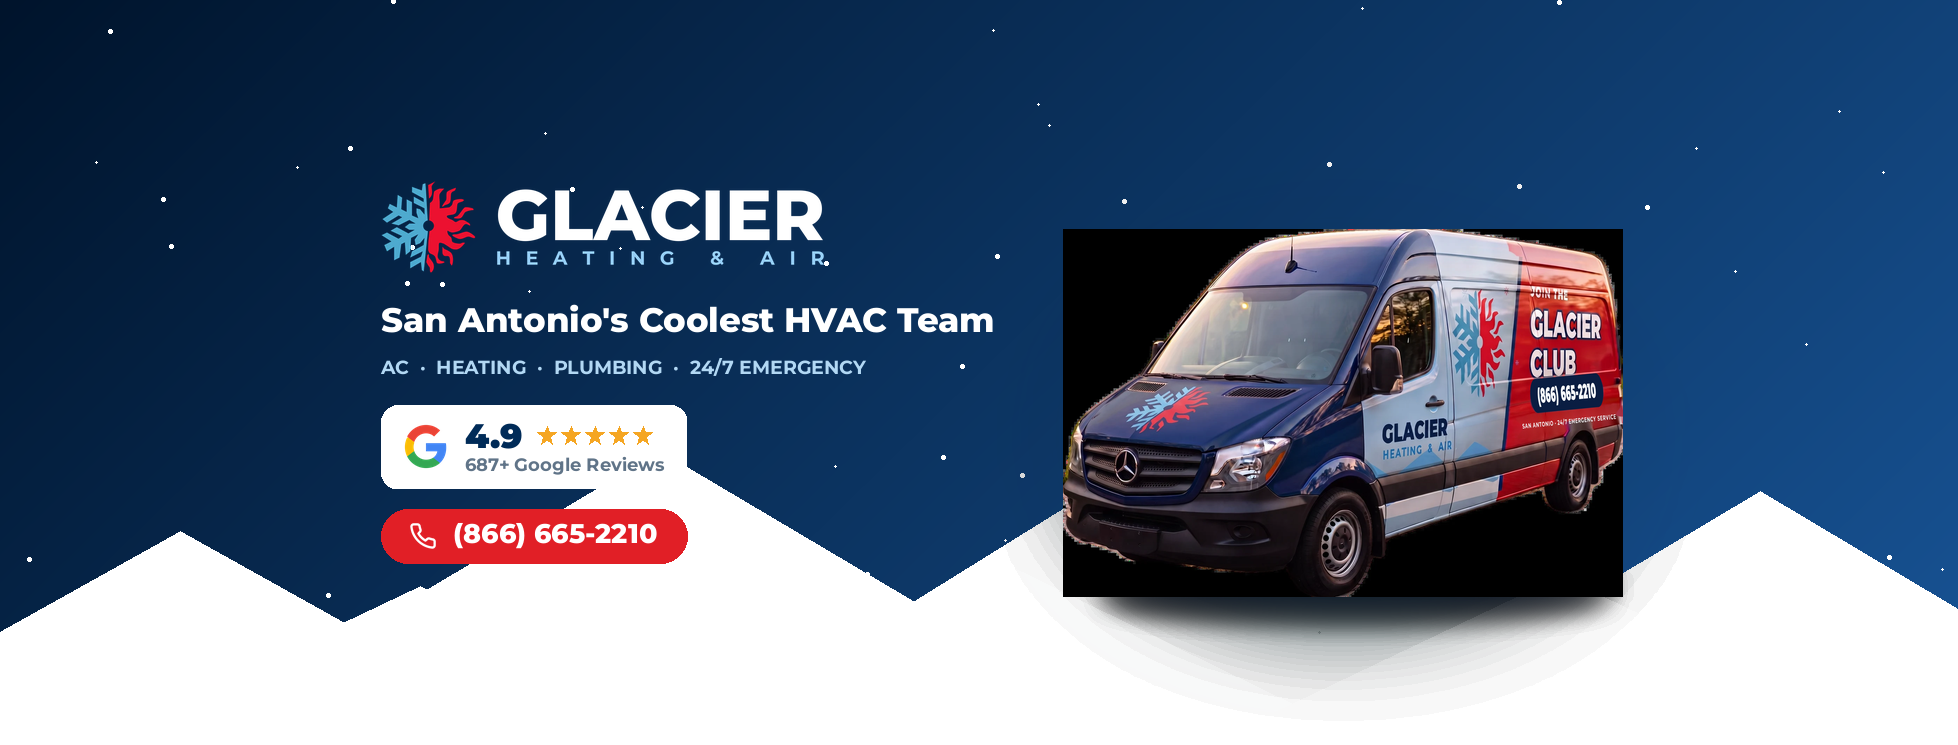
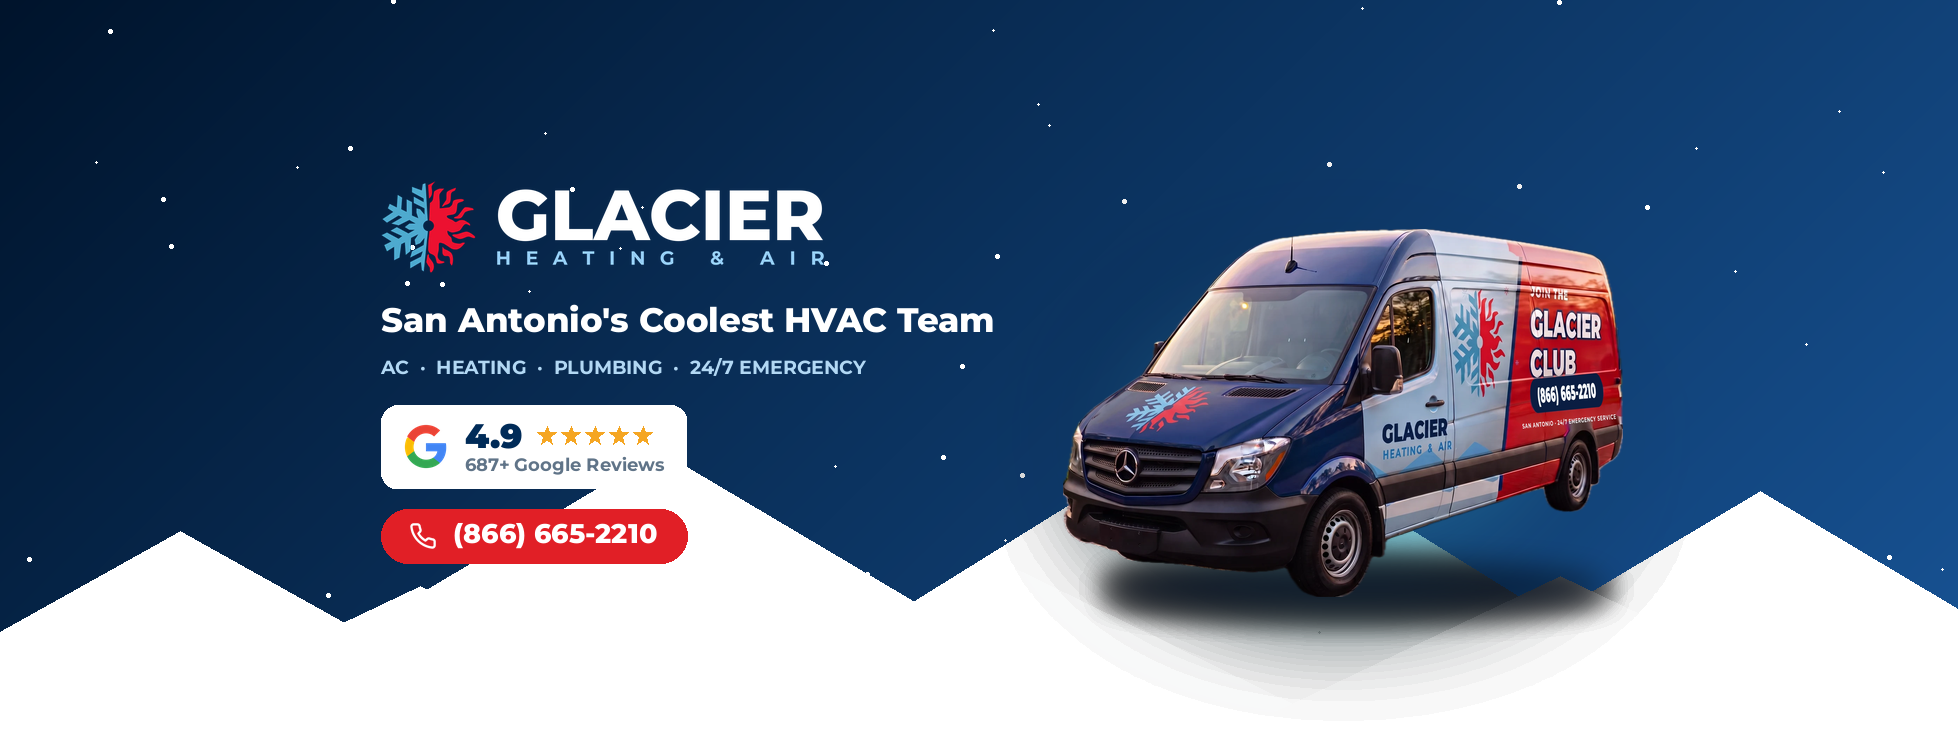
Restore van alpha cutout on 2x master; add ready-to-run 4:5 feed ad; regen all van assets
Claude-Session: https://claude.ai/code/session_0176LFk56ELEVayoECBSNudw

Changed region(s): [[0.5296, 0.6174, 0.8412, 0.8027], [0.5296, 0.3087, 0.6854, 0.6174], [0.7477, 0.3087, 0.8412, 0.4322]]

diff --git a/glacier-site/scratchpad/make_feed_ad.py b/glacier-site/scratchpad/make_feed_ad.py
@@ -1,0 +1,127 @@
+"""Ready-to-run Meta feed ad — 1080x1350 (4:5), the exact ratio Meta renders
+in feed with zero cropping. Feed doctrine: fewer words than the poster, offer
+in the banner, van as hero, one clean CTA bar. All measured, all vector+photo."""
+from PIL import Image, ImageDraw, ImageFont, ImageFilter
+import math
+
+W,H = 1080,1350
+FT="/tmp/mfonts"
+def f(n,s): return ImageFont.truetype(f"{FT}/Montserrat-{n}.ttf", s)
+NAVY=(0,43,88,255); DEEP=(0,26,54,255); HEAD=(12,52,96,255)
+ICE=(21,115,168,255); SLATE=(84,106,128,255)
+MARG=64
+
+img=Image.new("RGB",(W,H),(255,255,255))
+px=img.load()
+sky_top=(206,232,248); sky_bot=(156,205,238)
+GROUND=1020
+for y in range(H):
+    if y<GROUND:
+        t=(y/GROUND)**1.1
+        c=tuple(int(sky_top[i]+(sky_bot[i]-sky_top[i])*t) for i in range(3))
+    else:
+        t=(y-GROUND)/(H-GROUND)
+        a=(236,246,252); b=(214,232,244)
+        c=tuple(int(a[i]+(b[i]-a[i])*t) for i in range(3))
+    for x in range(W): px[x,y]=c
+img=img.convert("RGBA")
+d=ImageDraw.Draw(img,"RGBA")
+
+def mtn(cx,base,w,h,col): d.polygon([(cx-w,base),(cx,base-h),(cx+w,base)],fill=col)
+for cx,w,h,a in [(140,340,330,70),(470,420,430,90),(820,380,380,80),(1050,330,320,70)]:
+    mtn(cx,GROUND+6,w,h,(255,255,255,a))
+for cx,w,h,a in [(300,290,240,120),(700,330,270,130),(1000,280,230,120)]:
+    mtn(cx,GROUND+6,w,h,(255,255,255,a))
+
+def tw(t,font):
+    bb=d.textbbox((0,0),t,font=font); return bb[2]-bb[0]
+def text_vc(x,cy,t,font,fill):
+    bb=d.textbbox((0,0),t,font=font); h=bb[3]-bb[1]
+    d.text((x,cy-h/2-bb[1]),t,font=font,fill=fill); return bb[2]-bb[0]
+
+# headline
+size=68
+while tw("STAY COMFORTABLE.",f("Black",size)) > W-2*MARG and size>40: size-=2
+fh=f("Black",size)
+d.text((MARG,70),"STAY COOL.",font=fh,fill=HEAD)
+d.text((MARG,70+int(size*1.14)),"STAY COMFORTABLE.",font=fh,fill=HEAD)
+
+# offer banner
+by=70+int(size*2.52)
+bt="NEW AC SYSTEMS  ·  FREE EXACT-PRICE ESTIMATES"
+fb=f("Bold",30)
+while tw(bt,fb)+72>W-2*MARG and fb.size>22: fb=f("Bold",fb.size-1)
+bw=tw(bt,fb)+72
+d.polygon([(MARG,by),(MARG+bw,by),(MARG+bw-22,by+62),(MARG,by+62)],fill=NAVY)
+text_vc(MARG+34,by+31,bt,fb,(255,255,255,255))
+
+# three outline chips (one line each, no subtext — feed ads breathe)
+chips=["POWERFUL COOLING","ENERGY EFFICIENT","DURABLE & RELIABLE"]
+cy0=by+100; fc=f("Bold",21)
+cw=[tw(t,fc)+52 for t in chips]
+gap=(W-2*MARG-sum(cw))//2
+cx=MARG
+for t,wd in zip(chips,cw):
+    d.rounded_rectangle([cx,cy0,cx+wd,cy0+52],radius=26,outline=(13,66,116,200),width=3)
+    text_vc(cx+26,cy0+26,t,fc,HEAD)
+    cx+=wd+gap
+
+# van hero
+van=Image.open("public/van.webp").convert("RGBA")
+vw=940; vh=int(van.height*vw/van.width)
+van=van.resize((vw,vh),Image.LANCZOS)
+vx=(W-vw)//2+8; vy=GROUND-vh+96
+glow=Image.new("RGBA",(W,H),(0,0,0,0)); gd=ImageDraw.Draw(glow)
+gd.ellipse([vx+50,vy+70,vx+vw-50,vy+vh-16],fill=(72,202,228,70))
+glow=glow.filter(ImageFilter.GaussianBlur(70))
+img.alpha_composite(glow)
+sh=Image.new("RGBA",(W,H),(0,0,0,0)); shd=ImageDraw.Draw(sh)
+shd.ellipse([vx+60,vy+vh-52,vx+vw-34,vy+vh+20],fill=(6,24,48,150))
+sh=sh.filter(ImageFilter.GaussianBlur(18))
+img.alpha_composite(sh)
+img.alpha_composite(van,(vx,vy))
+d=ImageDraw.Draw(img,"RGBA")
+
+# floating white brand bar
+wbx,wby=MARG,GROUND+22; wbw=W-2*MARG; wbh=118
+bar=Image.new("RGBA",(wbw,wbh),(0,0,0,0)); bd=ImageDraw.Draw(bar)
+bd.rounded_rectangle([0,0,wbw,wbh],radius=22,fill=(255,255,255,255))
+img.alpha_composite(bar,(wbx,wby))
+d=ImageDraw.Draw(img,"RGBA")
+mark=Image.open("public/logo-mark.png").convert("RGBA"); mark=mark.crop(mark.getbbox())
+mh=76; mw=int(mark.width*mh/mark.height)
+img.alpha_composite(mark.resize((mw,mh),Image.LANCZOS),(wbx+30,wby+(wbh-mh)//2))
+d=ImageDraw.Draw(img,"RGBA")
+gx=wbx+30+mw+20
+d.text((gx,wby+24),"GLACIER",font=f("ExtraBold",44),fill=NAVY)
+gw2=tw("GLACIER",f("ExtraBold",44))
+sub="HEATING & AIR"; fsub=f("Bold",17)
+widths=[tw(c,fsub) if c!=' ' else 6 for c in sub]
+extra=(gw2-sum(widths))/(len(sub)-1); xx=gx
+for c,wd in zip(sub,widths):
+    if c!=' ': d.text((xx,wby+76),c,font=fsub,fill=ICE)
+    xx+=wd+extra
+dvx=gx+gw2+32
+d.line([(dvx,wby+26),(dvx,wby+wbh-26)],fill=(210,226,240,255),width=3)
+d.text((dvx+30,wby+30),"San Antonio's Coolest HVAC Team",font=f("ExtraBold",25),fill=NAVY)
+d.text((dvx+30,wby+66),"Trusted comfort. Built to last.",font=f("Bold",20),fill=SLATE)
+
+# navy CTA block
+cy=wby+wbh+26
+d.rectangle([0,cy,W,H],fill=DEEP)
+r1=cy+(H-cy)//2 - 14
+pc=Image.new("RGBA",(70,70),(0,0,0,0)); pd=ImageDraw.Draw(pc)
+pd.ellipse([0,0,70,70],outline=(255,255,255,255),width=4)
+img.alpha_composite(pc,(MARG,r1-35))
+ph=Image.open("scratchpad/phone.png").convert("RGBA").resize((40,40),Image.LANCZOS)
+img.alpha_composite(ph,(MARG+15,r1-20))
+d=ImageDraw.Draw(img,"RGBA")
+px0=MARG+92
+d.text((px0,r1-42),"CALL US TODAY!",font=f("Bold",23),fill=(255,255,255,225))
+d.text((px0,r1-12),"(866) 665-2210",font=f("Black",46),fill=(255,255,255,255))
+site="CallGlacier.com"; fs2=f("ExtraBold",27)
+sw=tw(site,fs2)
+d.rounded_rectangle([W-MARG-sw-56,r1-26,W-MARG,r1+26],radius=26,fill=(225,31,38,255))
+text_vc(W-MARG-sw-28,r1,site,fs2,(255,255,255,255))
+img.convert("RGB").save("scratchpad/feed-ad-45.png",optimize=True)
+print("saved",img.size)
